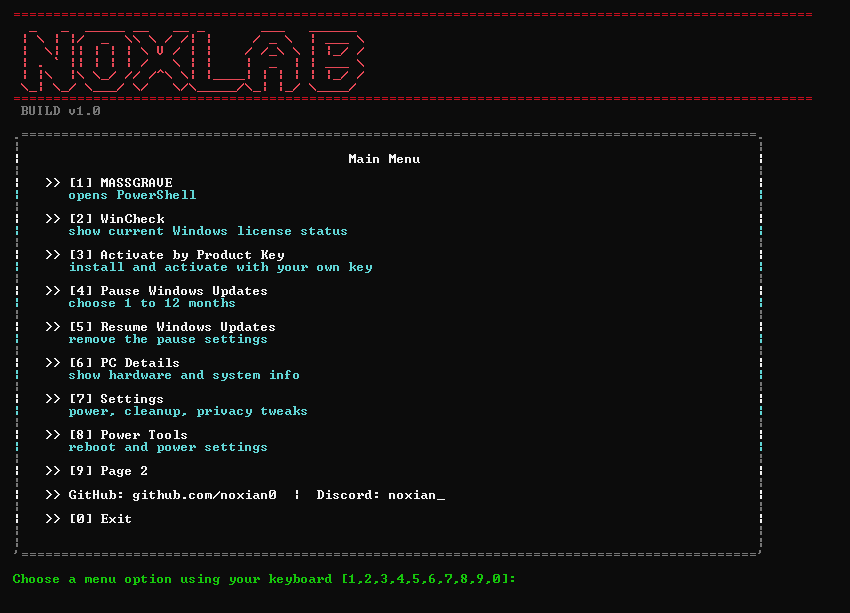
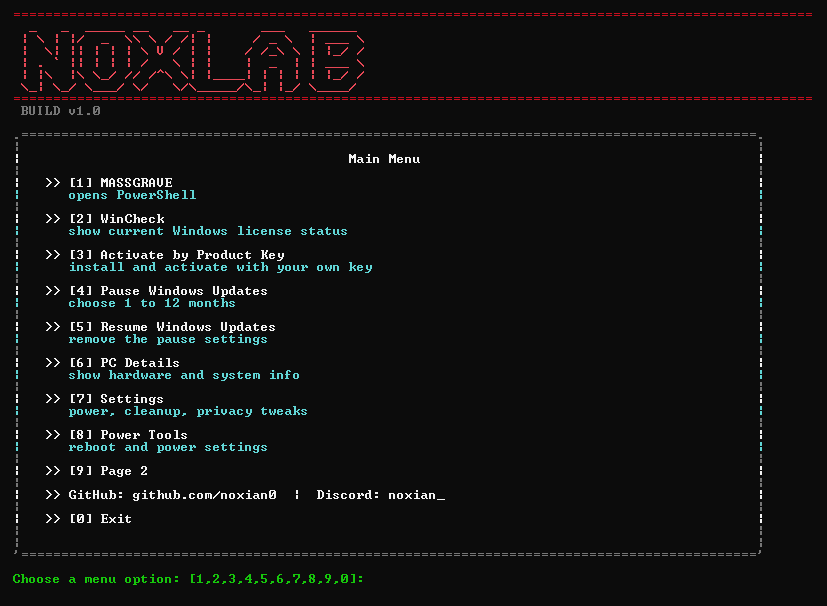
Final pre-release fixes

diff --git a/README.md b/README.md
@@ -54,7 +54,7 @@ Windows segédeszköz-készlet debloat funkciókkal, rendszereszközökkel, karb
 
 ## Képek
 
-![Fő menü](screenshots/mainmenu.png)
+![Fő menü](screenshots/mainmenuhu.png)
 
 ![Nyelvválasztó](screenshots/lang.png)
 